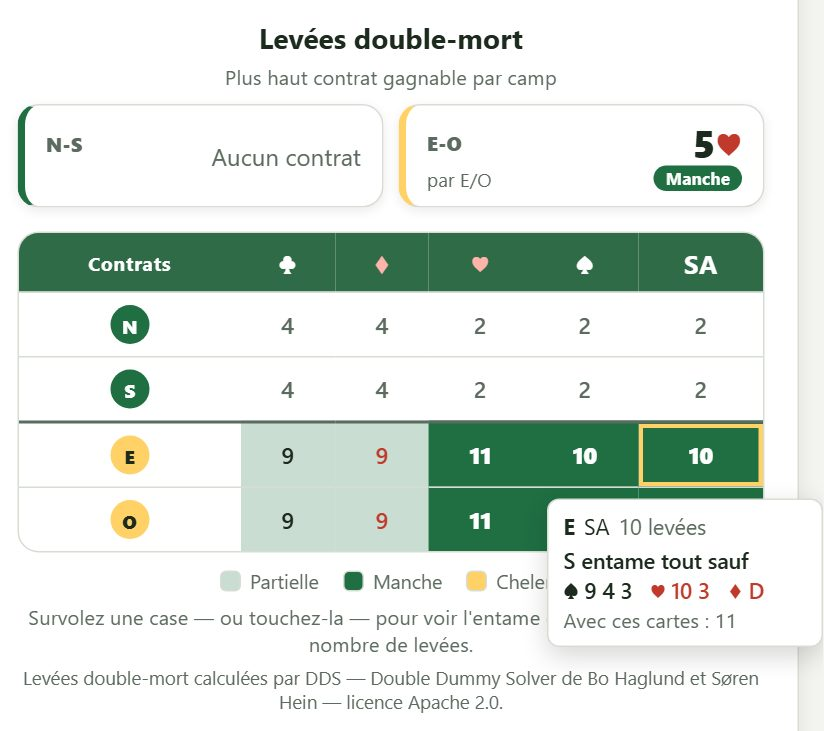
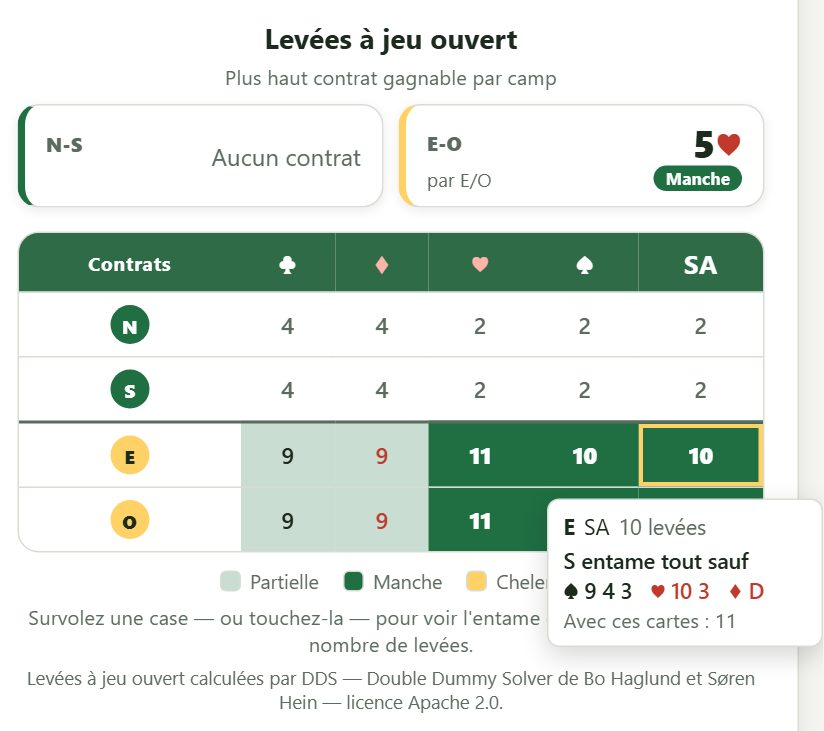
Textes : « à jeu ouvert » remplace « double-mort »
« Double-mort » vient du mort (le jeu étalé du partenaire du déclarant),
mais sa connotation peut dérouter un débutant. Les textes français de
l'interface (onglet PAR, entraînement, tutoriel, mode d'emploi, vidéo),
le README et les commentaires disent maintenant « à jeu ouvert ». Le texte
anglais garde « double-dummy ». Captures FR du tutoriel reprises.

Changed region(s): [[0.3034, 0.0301, 0.6371, 0.0903], [0.4551, 0.9029, 0.9102, 0.9631], [0.0303, 0.9029, 0.4248, 0.9631]]

diff --git a/cli/index.html b/cli/index.html
@@ -86,7 +86,7 @@
     :root[data-theme="dark"] #boot-loading { background: #151a16; color: #e7ece6; }
     :root[data-theme="dark"] #boot-loading .boot-spinner { border-color: #445146; border-top-color: #5cc389; }
   </style>
-  <!-- Le solveur double-mort (onglet du PAR) tourne en WebAssembly
+  <!-- Le solveur à jeu ouvert (onglet du PAR) tourne en WebAssembly
        avec des threads : il lui faut l'isolation cross-origine (SharedArrayBuffer).
        Le serveur Go pose déjà les en-têtes COOP/COEP ; ce service worker n'est
        qu'un repli pour les hôtes qui les retirent, et ne fait rien quand
@@ -561,7 +561,7 @@
     <div id="tabpanel-par" class="tabpanel" role="tabpanel" aria-labelledby="tab-par" hidden>
     <p class="tab-empty" id="par-empty" data-i18n="parEmpty">Le PAR s'affiche ici pour une donne complète dont les enchères sont calculées.</p>
     <div id="par-content">
-      <!-- « PAR » de la donne : les levées double-mort de chaque camp dans
+      <!-- « PAR » de la donne : les levées à jeu ouvert de chaque camp dans
            chaque couleur, calculées à la demande par le solveur DDS en WASM
            (voir par.js). Sur le modèle du tableau de dds-fork/web/dds_web.html. -->
       <div class="row par-row">
@@ -585,7 +585,7 @@
            [data-i18n] et effacerait le lien qu'ils contiendraient. Voir
            THIRD-PARTY-NOTICES.md pour les termes de la licence. -->
       <p class="muted par-credit hidden" id="par-credit">
-        <span data-i18n="parCredit">Levées double-mort calculées par</span>
+        <span data-i18n="parCredit">Levées à jeu ouvert calculées par</span>
         <a href="https://github.com/dds-bridge/dds" target="_blank" rel="noopener noreferrer">DDS — Double Dummy Solver</a>
         <span data-i18n="parCreditAuthors">de Bo Haglund et Søren Hein — licence</span>
         <a href="https://www.apache.org/licenses/LICENSE-2.0" target="_blank" rel="noopener noreferrer">Apache 2.0</a>.
@@ -716,7 +716,7 @@
 
         <h3>5. Le PAR (onglet PAR)</h3>
         <ul>
-          <li>Le nombre de levées que chaque camp réalise dans chaque couleur, cartes sur table (calcul double-mort).</li>
+          <li>Le nombre de levées que chaque camp réalise dans chaque couleur, cartes sur table (calcul à jeu ouvert).</li>
           <li>En tête, le <b>plus haut contrat gagnable</b> de chaque camp et qui le joue. Les cases sont teintées selon le contrat qu'elles permettent : <b>partielle</b> (vert pâle), <b>manche</b> (vert) ou <b>chelem</b> (or) ; une légende sous le tableau le rappelle.</li>
           <li>Il se calcule à l'ouverture de l'onglet, puis pour chaque nouvelle donne tant que l'onglet reste ouvert. Il faut une donne complète dont les enchères sont calculées.</li>
           <li>Survolez une case (ou touchez-la) pour voir les entames qui tiennent le déclarant à ce nombre de levées, et ce que coûtent les autres.</li>
@@ -725,7 +725,7 @@
 
         <h3>6. S'entraîner</h3>
         <ul class="help-icons">
-          <li><span data-help-icon="quiz"></span><span>La carte <b>S'entraîner</b>, en tête de page, ouvre le choix de <b>votre main</b> (Nord, Est, Sud ou Ouest, ou au centre <b>Camp du déclarant</b> : à chaque donne, votre main est tirée au hasard dans le camp qui joue le contrat), puis la table d'entraînement. Il choisit aussi les <b>donnes</b> : <b>Tous les thèmes</b> (tirées parmi toutes les donnes thématiques) ou <b>Un thème</b> (celui de la liste, avec son nombre de donnes) ; une phrase sous le choix rappelle d'où viendront les donnes. Seules les donnes dont le fichier porte l'enchère entrent dans l'entraînement : à la table, l'application relit cette enchère au lieu d'appeler le moteur. Si un thème est choisi sur la page (bandeau du thème), il est repris d'office. Une donne thématique ne revient pas dans la même séance : quand toutes ont été jouées, « Plus de donnes disponibles » s'affiche. Le donneur, la vulnérabilité et les bornes choisis s'appliquent. Le thème de la donne n'est pas affiché à la table, pour ne rien souffler ; le score de <b>Terminer</b> le cite. Une fois l'enchère finie, le <b>tableau du PAR</b> (levées au double mort) s'affiche à côté de la table, la case du contrat atteint encadrée, avec son résultat.</span></li>
+          <li><span data-help-icon="quiz"></span><span>La carte <b>S'entraîner</b>, en tête de page, ouvre le choix de <b>votre main</b> (Nord, Est, Sud ou Ouest, ou au centre <b>Camp du déclarant</b> : à chaque donne, votre main est tirée au hasard dans le camp qui joue le contrat), puis la table d'entraînement. Il choisit aussi les <b>donnes</b> : <b>Tous les thèmes</b> (tirées parmi toutes les donnes thématiques) ou <b>Un thème</b> (celui de la liste, avec son nombre de donnes) ; une phrase sous le choix rappelle d'où viendront les donnes. Seules les donnes dont le fichier porte l'enchère entrent dans l'entraînement : à la table, l'application relit cette enchère au lieu d'appeler le moteur. Si un thème est choisi sur la page (bandeau du thème), il est repris d'office. Une donne thématique ne revient pas dans la même séance : quand toutes ont été jouées, « Plus de donnes disponibles » s'affiche. Le donneur, la vulnérabilité et les bornes choisis s'appliquent. Le thème de la donne n'est pas affiché à la table, pour ne rien souffler ; le score de <b>Terminer</b> le cite. Une fois l'enchère finie, le <b>tableau du PAR</b> (levées à jeu ouvert) s'affiche à côté de la table, la case du contrat atteint encadrée, avec son résultat.</span></li>
         </ul>
         <ul>
           <li>Votre main est toujours <b>en bas</b>, face visible ; les trois autres joueurs ont le dos tourné (à gauche, celui qui parle après vous ; en face, votre partenaire). Au centre, la boîte des enchères : les sièges vulnérables y sont en rouge, et un <b>?</b> marque le tour de parole. La plaque du joueur qui parle s'éclaire en jaune.</li>
@@ -1227,7 +1227,7 @@
        et même repli en bandeau bas sur un écran sans survol. -->
   <div id="hint-tip" class="par-tip hint-tip hidden" role="tooltip" aria-live="polite"></div>
 
-  <!-- Le solveur double-mort (DDS) ne se charge plus ici : ses deux fichiers
+  <!-- Le solveur à jeu ouvert (DDS) ne se charge plus ici : ses deux fichiers
        pèsent 915 Ko, et seul l'onglet du PAR s'en sert. par.js les
        injecte au premier calcul (voir loadScripts). -->
 

diff --git a/cli/app.js b/cli/app.js
@@ -335,9 +335,9 @@ const UI_TEXT = {
     trainCount: (k, n) => `Donne ${k} / ${n}`,
     trainYou: "(vous)",
     trainAuctionOver: "Enchère terminée : les quatre mains sont dévoilées.",
-    trainParTitle: "PAR : levées au double mort",
+    trainParTitle: "PAR : levées à jeu ouvert",
     trainParBusy: "Calcul du PAR…",
-    trainParResult: (contract, seat, n) => `${contract} par ${seat} : ${n} levée${n > 1 ? "s" : ""} au double mort`,
+    trainParResult: (contract, seat, n) => `${contract} par ${seat} : ${n} levée${n > 1 ? "s" : ""} à jeu ouvert`,
     trainParMade: (over) => over ? `réussi +${over}` : "réussi",
     trainParDown: (n) => `chute de ${n}`,
     trainPassedOut: "Passe générale",
@@ -355,7 +355,7 @@ const UI_TEXT = {
     comments: "Séquence commentée",
     parCompute: "Calcul du PAR",
     parContracts: "Contrats",
-    parTitle: "Levées double-mort",
+    parTitle: "Levées à jeu ouvert",
     parBest: "Plus haut contrat gagnable par camp",
     parSideNS: "N-S",
     parSideEW: "E-O",
@@ -366,7 +366,7 @@ const UI_TEXT = {
     parTierSlam: "Chelem",
     parComputing: "Calcul en cours…",
     parLoading: "Chargement du solveur…",
-    parUnavailable: "Solveur double-mort (WASM) introuvable.",
+    parUnavailable: "Solveur à jeu ouvert (WASM) introuvable.",
     parNoIsolation: "Isolation cross-origine requise (SharedArrayBuffer) ; rechargez la page.",
     parLeadHint: "Survolez une case — ou touchez-la — pour voir l'entame qui tient le contrat à ce nombre de levées.",
     // Encadre le lien vers le projet DDS : son nom n'est pas traduit, et
@@ -380,7 +380,7 @@ const UI_TEXT = {
     appSource: "Code source sur GitHub",
     appAnimation: "Vidéo de présentation",
     videoClose: "Fermer la vidéo",
-    parCredit: "Levées double-mort calculées par",
+    parCredit: "Levées à jeu ouvert calculées par",
     parCreditAuthors: "de Bo Haglund et Søren Hein — licence",
     parLeadComputing: "Recherche de l'entame…",
     parLeadVerb: "entame",
@@ -4891,7 +4891,7 @@ function renderResult(r) {
     })
     .join("") || `<li class="muted">${lang === "fr" ? "aucune" : "none"}</li>`;
 
-  // Tableau du « PAR » (levées double-mort) : remis à zéro pour la donne qu'on
+  // Tableau du « PAR » (levées à jeu ouvert) : remis à zéro pour la donne qu'on
   // vient d'afficher, puis calculé à la demande par le bouton (voir par.js).
   if (typeof parSetDeal === "function") parSetDeal(r.hands, lang);
   setParReady(true);
@@ -6552,7 +6552,7 @@ const TUTORIAL_STEPS = [
     en: ["The decision tree", "The icon at the start of a line opens the decision tree: the rules the engine checked on the hand, in order, with ✓ or ✗ and the measured value, down to the chosen call.\nFor a call read from a file (see Practise) it opens its comment: that is what explains the call.\nIt is the best way to understand why a call was made."],
   },
   {
-    fr: ["Le PAR", "L'onglet PAR donne les levées que chaque camp réalise dans chaque couleur, cartes sur table (calcul double-mort).\nSurvolez ou touchez une case : les entames qui tiennent le déclarant à ce nombre de levées, et ce que coûtent les autres."],
+    fr: ["Le PAR", "L'onglet PAR donne les levées que chaque camp réalise dans chaque couleur, cartes sur table (calcul à jeu ouvert).\nSurvolez ou touchez une case : les entames qui tiennent le déclarant à ce nombre de levées, et ce que coûtent les autres."],
     en: ["The par", "The Par tab gives the tricks each side makes in each denomination, cards face up (double dummy).\nHover or tap a cell: the leads that hold declarer to that number of tricks, and what the others cost."],
   },
   {

diff --git a/cli/animation.html b/cli/animation.html
@@ -316,7 +316,7 @@
       <!-- 4 · Le PAR -->
       <section class="scene" data-dur="8" data-label="chPar">
         <div class="chapter-tag a"><i>3</i> <b data-t="tagPar">Comparer au PAR</b></div>
-        <div class="par a" style="--k:fade;--d:.2" data-t-label="parGrid" aria-label="Levées double-mort par déclarant et dénomination">
+        <div class="par a" style="--k:fade;--d:.2" data-t-label="parGrid" aria-label="Levées à jeu ouvert par déclarant et dénomination">
           <span></span><span class="h">♣</span><span class="h red">♦</span><span class="h red">♥</span><span class="h">♠</span><span class="h" style="font-size:18px" data-t="nt">SA</span>
           <span class="rh">N</span><span class="cell" style="--d:0.0"><b>6</b></span><span class="cell" style="--d:0.1"><b>9</b></span><span class="cell" style="--d:0.2"><b>6</b></span><span class="cell hl" style="--d:0.3"><b>10</b></span><span class="cell" style="--d:0.4"><b>8</b></span>
           <span class="rh">S</span><span class="cell" style="--d:0.15"><b>6</b></span><span class="cell" style="--d:0.25"><b>9</b></span><span class="cell" style="--d:0.35"><b>6</b></span><span class="cell hl" style="--d:0.45"><b>10</b></span><span class="cell" style="--d:0.55"><b>8</b></span>
@@ -326,7 +326,7 @@
         <div class="par-result a" style="--k:pop;--d:3.2"><small>PAR</small><strong>4♠ <span data-t="ns">Nord‑Sud</span></strong><span data-t="parScore">+620 · 10 levées</span></div>
         <div class="par-note">
           <p class="a" style="--d:3.6" data-t="parIsPar">Le contrat des enchères, 4♠ par Sud, est celui du PAR.</p>
-          <small class="a" style="--d:4" data-t="ddsCredit">Levées double-mort calculées par DDS, de Bo Haglund et Søren Hein, directement dans le navigateur</small>
+          <small class="a" style="--d:4" data-t="ddsCredit">Levées à jeu ouvert calculées par DDS, de Bo Haglund et Søren Hein, directement dans le navigateur</small>
         </div>
       </section>
 
@@ -421,10 +421,10 @@
       nt: "SA", nt1: "1SA", nt2: "2SA", pass: "Passe",
       southHcp: "Sud · 16 H",
       finalContract: "Contrat final", bySouth: "joué par Sud",
-      parGrid: "Levées double-mort par déclarant et dénomination",
+      parGrid: "Levées à jeu ouvert par déclarant et dénomination",
       ns: "Nord‑Sud", parScore: "+620 · 10 levées",
       parIsPar: "Le contrat des enchères, 4♠ par Sud, est celui du PAR.",
-      ddsCredit: "Levées double-mort calculées par DDS, de Bo Haglund et Søren Hein, directement dans le navigateur",
+      ddsCredit: "Levées à jeu ouvert calculées par DDS, de Bo Haglund et Søren Hein, directement dans le navigateur",
       yourTurn: "À vous d'enchérir, en Sud :", yourHand: "Votre main",
       verdict: "4♠ : accepte la proposition de manche, maximum",
       quizSide: "<b>Mode questionnaire.</b> La donne reste masquée : vous enchérissez avec votre seule main, et l'application compare chaque enchère à la sienne, commentaire à l'appui.",

diff --git a/cli/par.js b/cli/par.js
@@ -1,6 +1,6 @@
 "use strict";
 
-// « PAR » de la donne affichée : les levées double-mort (double dummy) de
+// « PAR » de la donne affichée : les levées à jeu ouvert (double dummy) de
 // chaque camp dans chaque couleur, calculées par le solveur DDS compilé en
 // WebAssembly. Le module et ses octets .wasm sont repris tels quels de
 // dds-fork/web (dds_web_wasm.js / dds_web_wasm_bin.js) ; on appelle ici
@@ -266,7 +266,7 @@
   // Rang d'enchère d'une couleur DDS : ♣ < ♦ < ♥ < ♠ < SA.
   const BID_RANK = [3, 2, 1, 0, 4];
 
-  // Le plus haut contrat que chaque camp gagne en double-mort, et qui le
+  // Le plus haut contrat que chaque camp gagne à jeu ouvert, et qui le
   // joue. Ce n'est pas le par au sens strict (ni sacrifice ni vulnérabilité),
   // mais ce que le tableau dit d'un coup d'œil.
   function summaryHTML(lang) {
@@ -598,7 +598,7 @@
     if (dealHands && !lastTable) onCompute();
   };
 
-  // Pour l'entraînement : la table double-mort d'une donne quelconque (mains
+  // Pour l'entraînement : la table à jeu ouvert d'une donne quelconque (mains
   // au format de renderResult), sans toucher à celle de l'onglet. Même file
   // d'attente que les entames : le solveur ne fait qu'un calcul à la fois.
   window.parTableFor = function (hands) {
